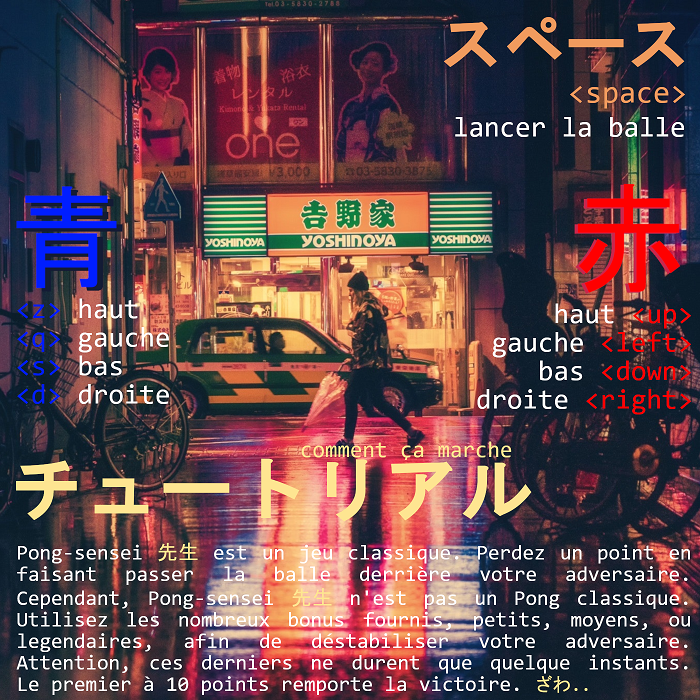
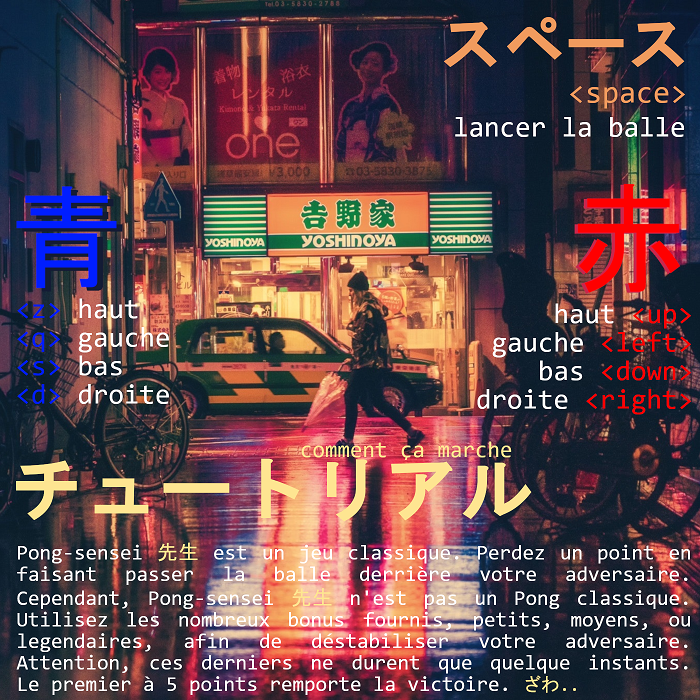
Add files via upload

Changed region(s): [[0.24, 0.96, 0.84, 1.0]]

diff --git a/pong-sensei.py b/pong-sensei.py
@@ -94,7 +94,9 @@ class Timer :
                 if "Bloqueur" in globals() : Bloqueur.autodestruction()
                 self.autodestruction()
             else : fen.after(1000,self.compteur)
-        else : self.autodestruction()
+        else :
+            Bloqueur.autodestruction()
+            self.autodestruction()
 
     def autodestruction(self) :
         #on détruit alors l'objet timer sur tkinter, et l'instance de la classe
@@ -218,11 +220,12 @@ class legendaireBONUS :
             fen.after(50,self.clignotement)
 
     def autodestruction(self) :
-        global commencerLeJeu, Legendaire
+        global commencerLeJeu, Legendaire,IlyAunBonus
         #on supprime l'objet tkinter, puis l'instance de classe
         canvas.delete(self.objet)
         del self
         #si le jeu n'est pas perdu, on relance l'opération de bonus.
+        IlyAunBonus=False
         if commencerLeJeu==True : fen.after(8000,RandomBonus)
 
 class superBONUS :
@@ -245,6 +248,7 @@ class superBONUS :
         canvas.delete(self.objet)
         del self
         #si le jeu n'est pas perdu, on relance l'opération de bonus.
+        IlyAunBonus=False
         if commencerLeJeu==True : fen.after(8000,RandomBonus)
 
 class communBONUS :
@@ -272,8 +276,10 @@ class communBONUS :
             if self.on==True : fen.after(3000,self.encore)
 
     def autodestruction(self) :
+        for i in self.listeobjets : i.autodestruction()
         self.on = False
         del self
+        IlyAunBonus=False
         if commencerLeJeu==True : fen.after(8000,RandomBonus)
 
 class FausseBalle :
@@ -419,7 +425,7 @@ def augmentationVitesseBalle() :
     fen.after(5000,augmentationVitesseBalle)
 
 
-atteindre=10
+atteindre=5
 def reset_balle() :
     #fonction qui se déclenche quand un joueur perd.
     global commencerLeJeu,canvas,Balle1,Balle1X,Balle1Y,Bcommun,Ecommun,Bsuper,Esuper,Legendaire,BerangereX,BerangereY,EdmondX,EdmondY,vitesseBalle,atteindre
@@ -447,13 +453,14 @@ def reset_balle() :
     if a==atteindre : finduJEU("edmond")
     if b==atteindre : finduJEU("berangere")
 
+IlyAunBonus=False
 def RandomBonus() :
     """fonction qui sélectionne, au hasard, un bonus.
     - Un bonus commun a 40% de chances d'apparaitre
     - Un bonus super a 30% de chances d'apparaitre
     - Un bonus légendaire a 20% de chances d'apparaitre"""
-    global commencerLeJeu
-    if commencerLeJeu==True :
+    global commencerLeJeu,IlyAunBonus
+    if commencerLeJeu==True and IlyAunBonus==False:
         n = random.randint(0,100)
         if 0<=n<=40 : bonus(1)
         if 41<=n<=70 : bonus(2)
